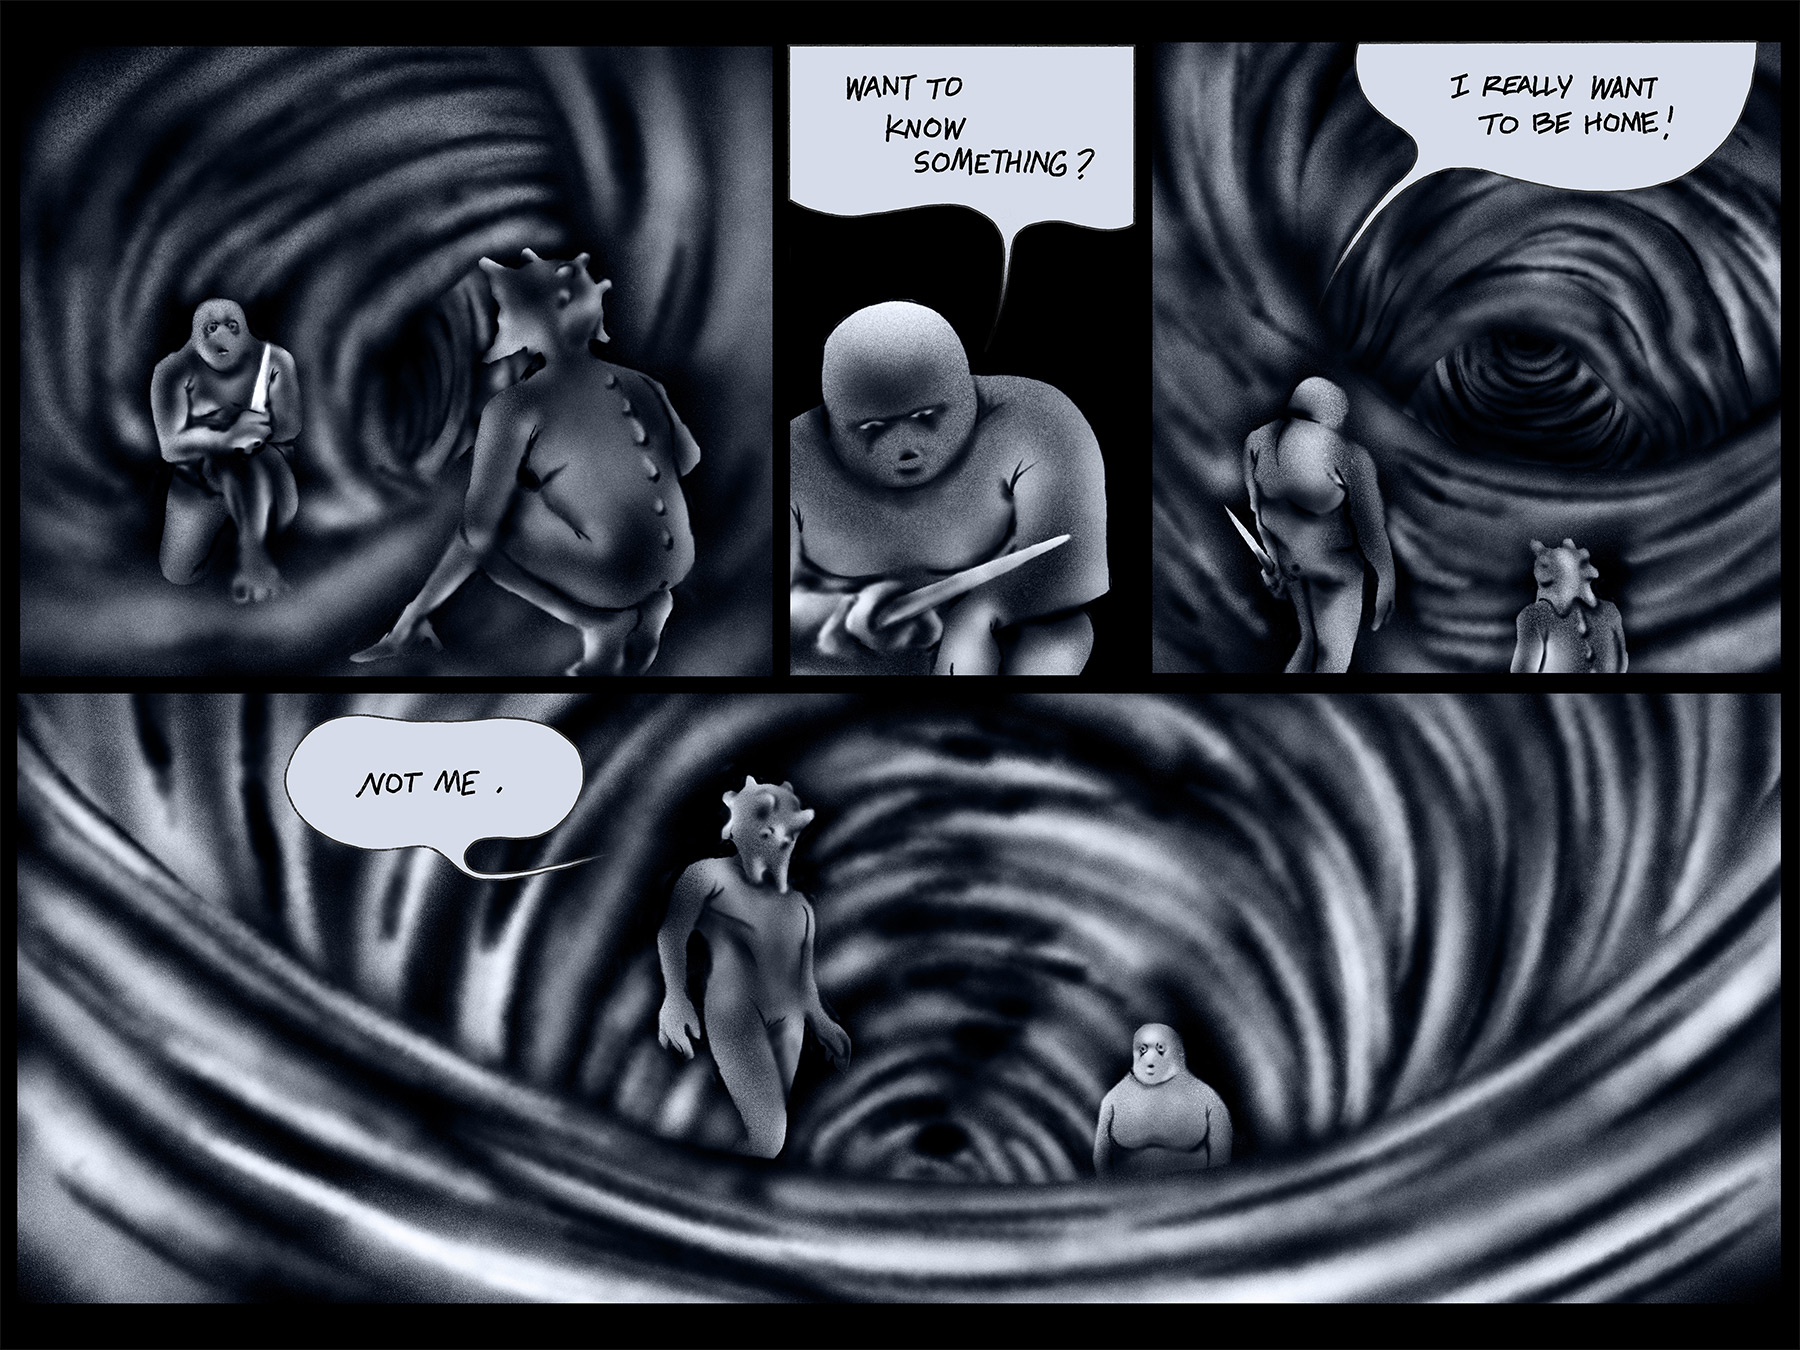
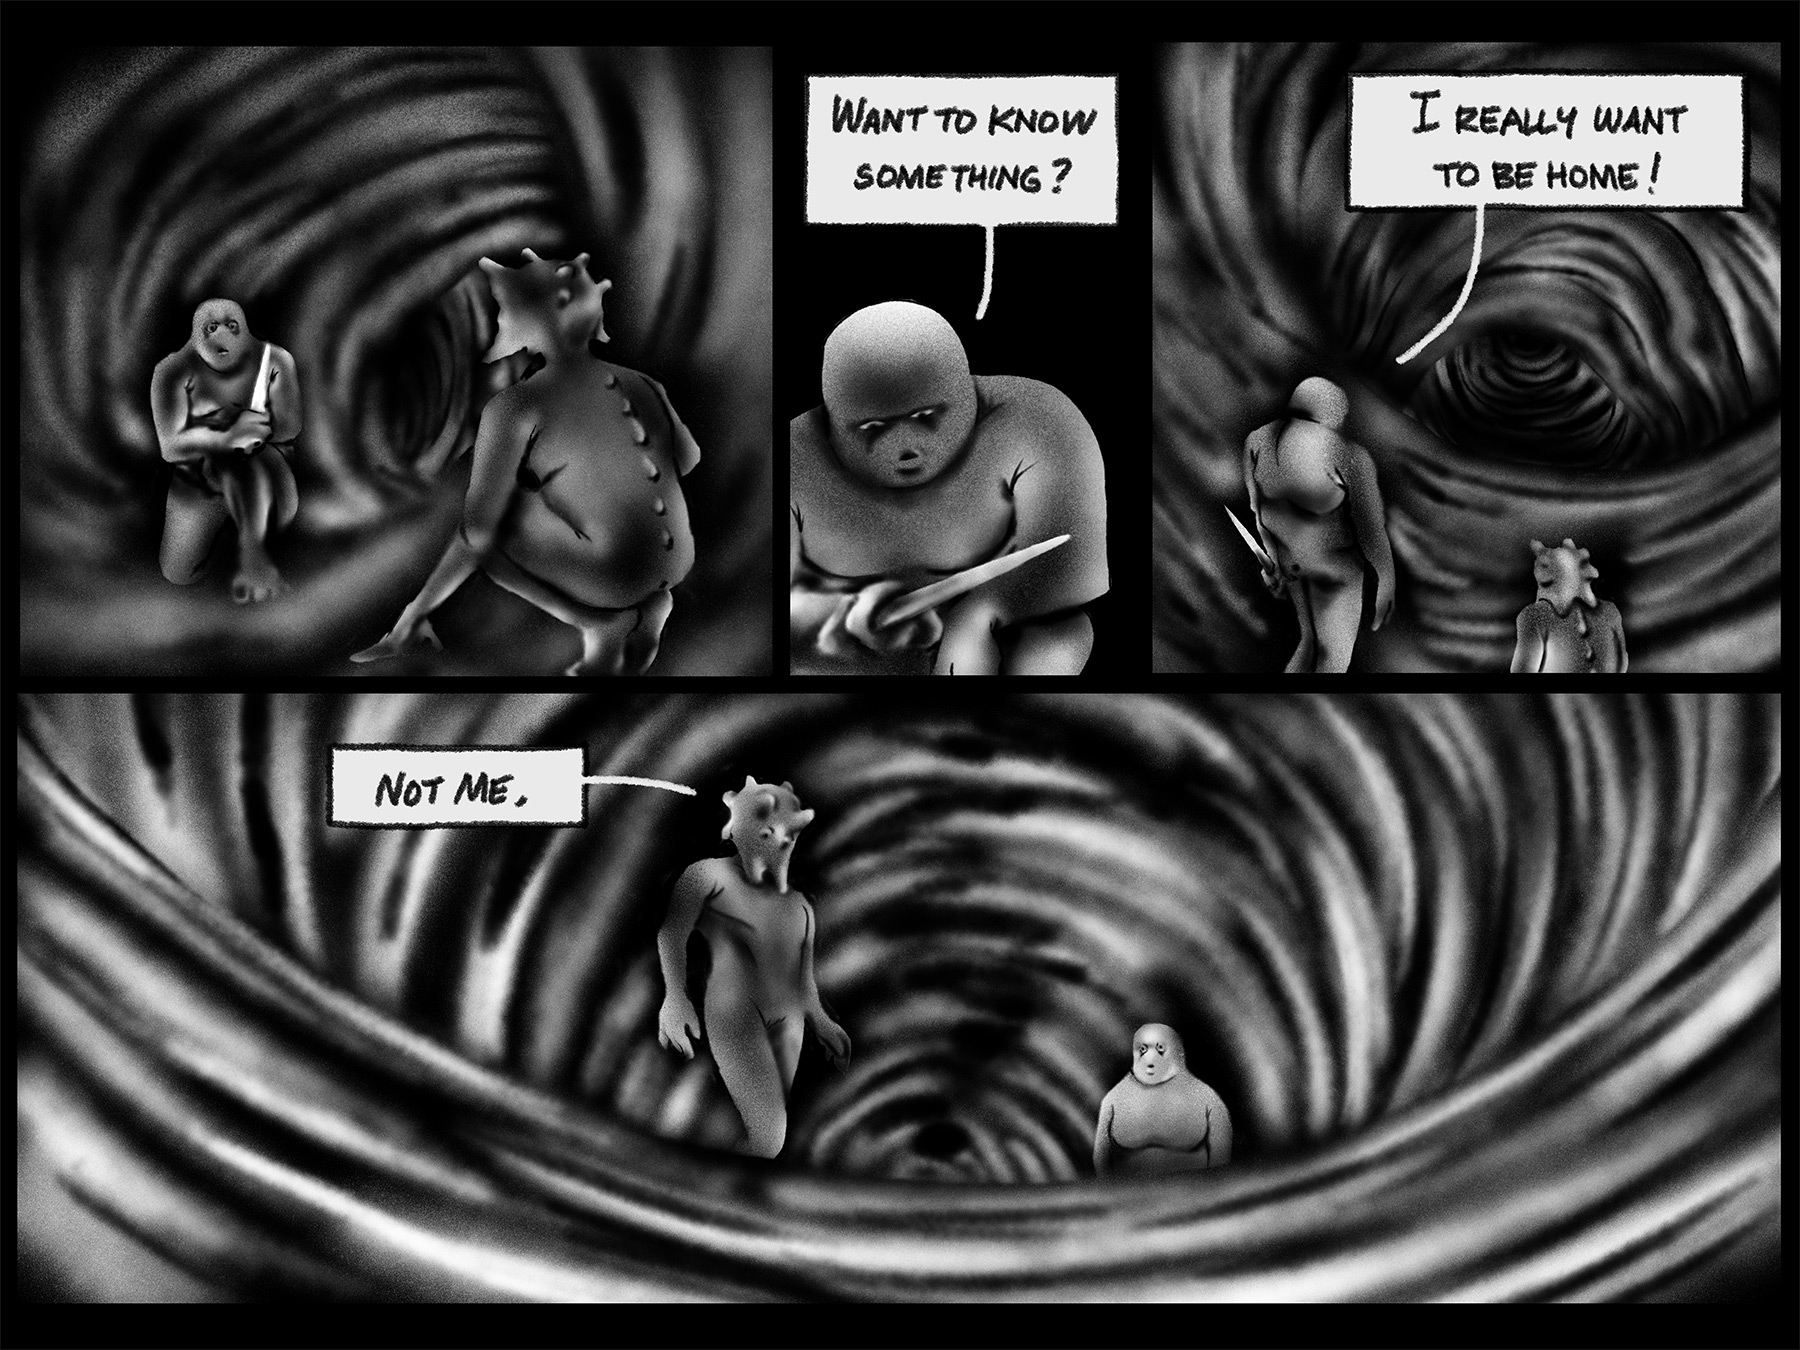
updated artwork for mm 001

diff --git a/mm-001-story.html b/mm-001-story.html
@@ -43,15 +43,15 @@
 		<img class="w-vw-cntr-pad" src="images/mm-001-story/web-mm-001-story-1.jpg" alt="Page 1">
 		-->
 
-		<img class="w-vw-cntr-pad" src="images/mm-001-story/web-mm-001-story-1.jpg" alt="Page 1">
-		<img class="w-vw-cntr-pad" src="images/mm-001-story/web-mm-001-story-2.jpg" alt="Page 2">
-		<img class="w-vw-cntr-pad" src="images/mm-001-story/web-mm-001-story-3.jpg" alt="Page 3">
-		<img class="w-vw-cntr-pad" src="images/mm-001-story/web-mm-001-story-4.jpg" alt="Page 4">
-		<img class="w-vw-cntr-pad" src="images/mm-001-story/web-mm-001-story-5.jpg" alt="Page 5">
-		<img class="w-vw-cntr-pad" src="images/mm-001-story/web-mm-001-story-6.jpg" alt="Page 6">
-		<img class="w-vw-cntr-pad" src="images/mm-001-story/web-mm-001-story-7.jpg" alt="Page 7">
-		<img class="w-vw-cntr-pad" src="images/mm-001-story/web-mm-001-story-8.jpg" alt="Page 8">
-		<img class="w-vw-cntr-pad" src="images/mm-001-story/web-mm-001-story-9.jpg" alt="Page 9">
+		<img class="w-vw-cntr-pad" src="images/mm-001-story/web-mm-001-story-01.jpg" alt="Page 1">
+		<img class="w-vw-cntr-pad" src="images/mm-001-story/web-mm-001-story-02.jpg" alt="Page 2">
+		<img class="w-vw-cntr-pad" src="images/mm-001-story/web-mm-001-story-03.jpg" alt="Page 3">
+		<img class="w-vw-cntr-pad" src="images/mm-001-story/web-mm-001-story-04.jpg" alt="Page 4">
+		<img class="w-vw-cntr-pad" src="images/mm-001-story/web-mm-001-story-05.jpg" alt="Page 5">
+		<img class="w-vw-cntr-pad" src="images/mm-001-story/web-mm-001-story-06.jpg" alt="Page 6">
+		<img class="w-vw-cntr-pad" src="images/mm-001-story/web-mm-001-story-07.jpg" alt="Page 7">
+		<img class="w-vw-cntr-pad" src="images/mm-001-story/web-mm-001-story-08.jpg" alt="Page 8">
+		<img class="w-vw-cntr-pad" src="images/mm-001-story/web-mm-001-story-09.jpg" alt="Page 9">
 		<img class="w-vw-cntr-pad" src="images/mm-001-story/web-mm-001-story-10.jpg" alt="Page 10">
 		<img class="w-vw-cntr-pad" src="images/mm-001-story/web-mm-001-story-11.jpg" alt="Page 11">
 		<img class="w-vw-cntr-pad" src="images/mm-001-story/web-mm-001-story-12.jpg" alt="Page 12">
